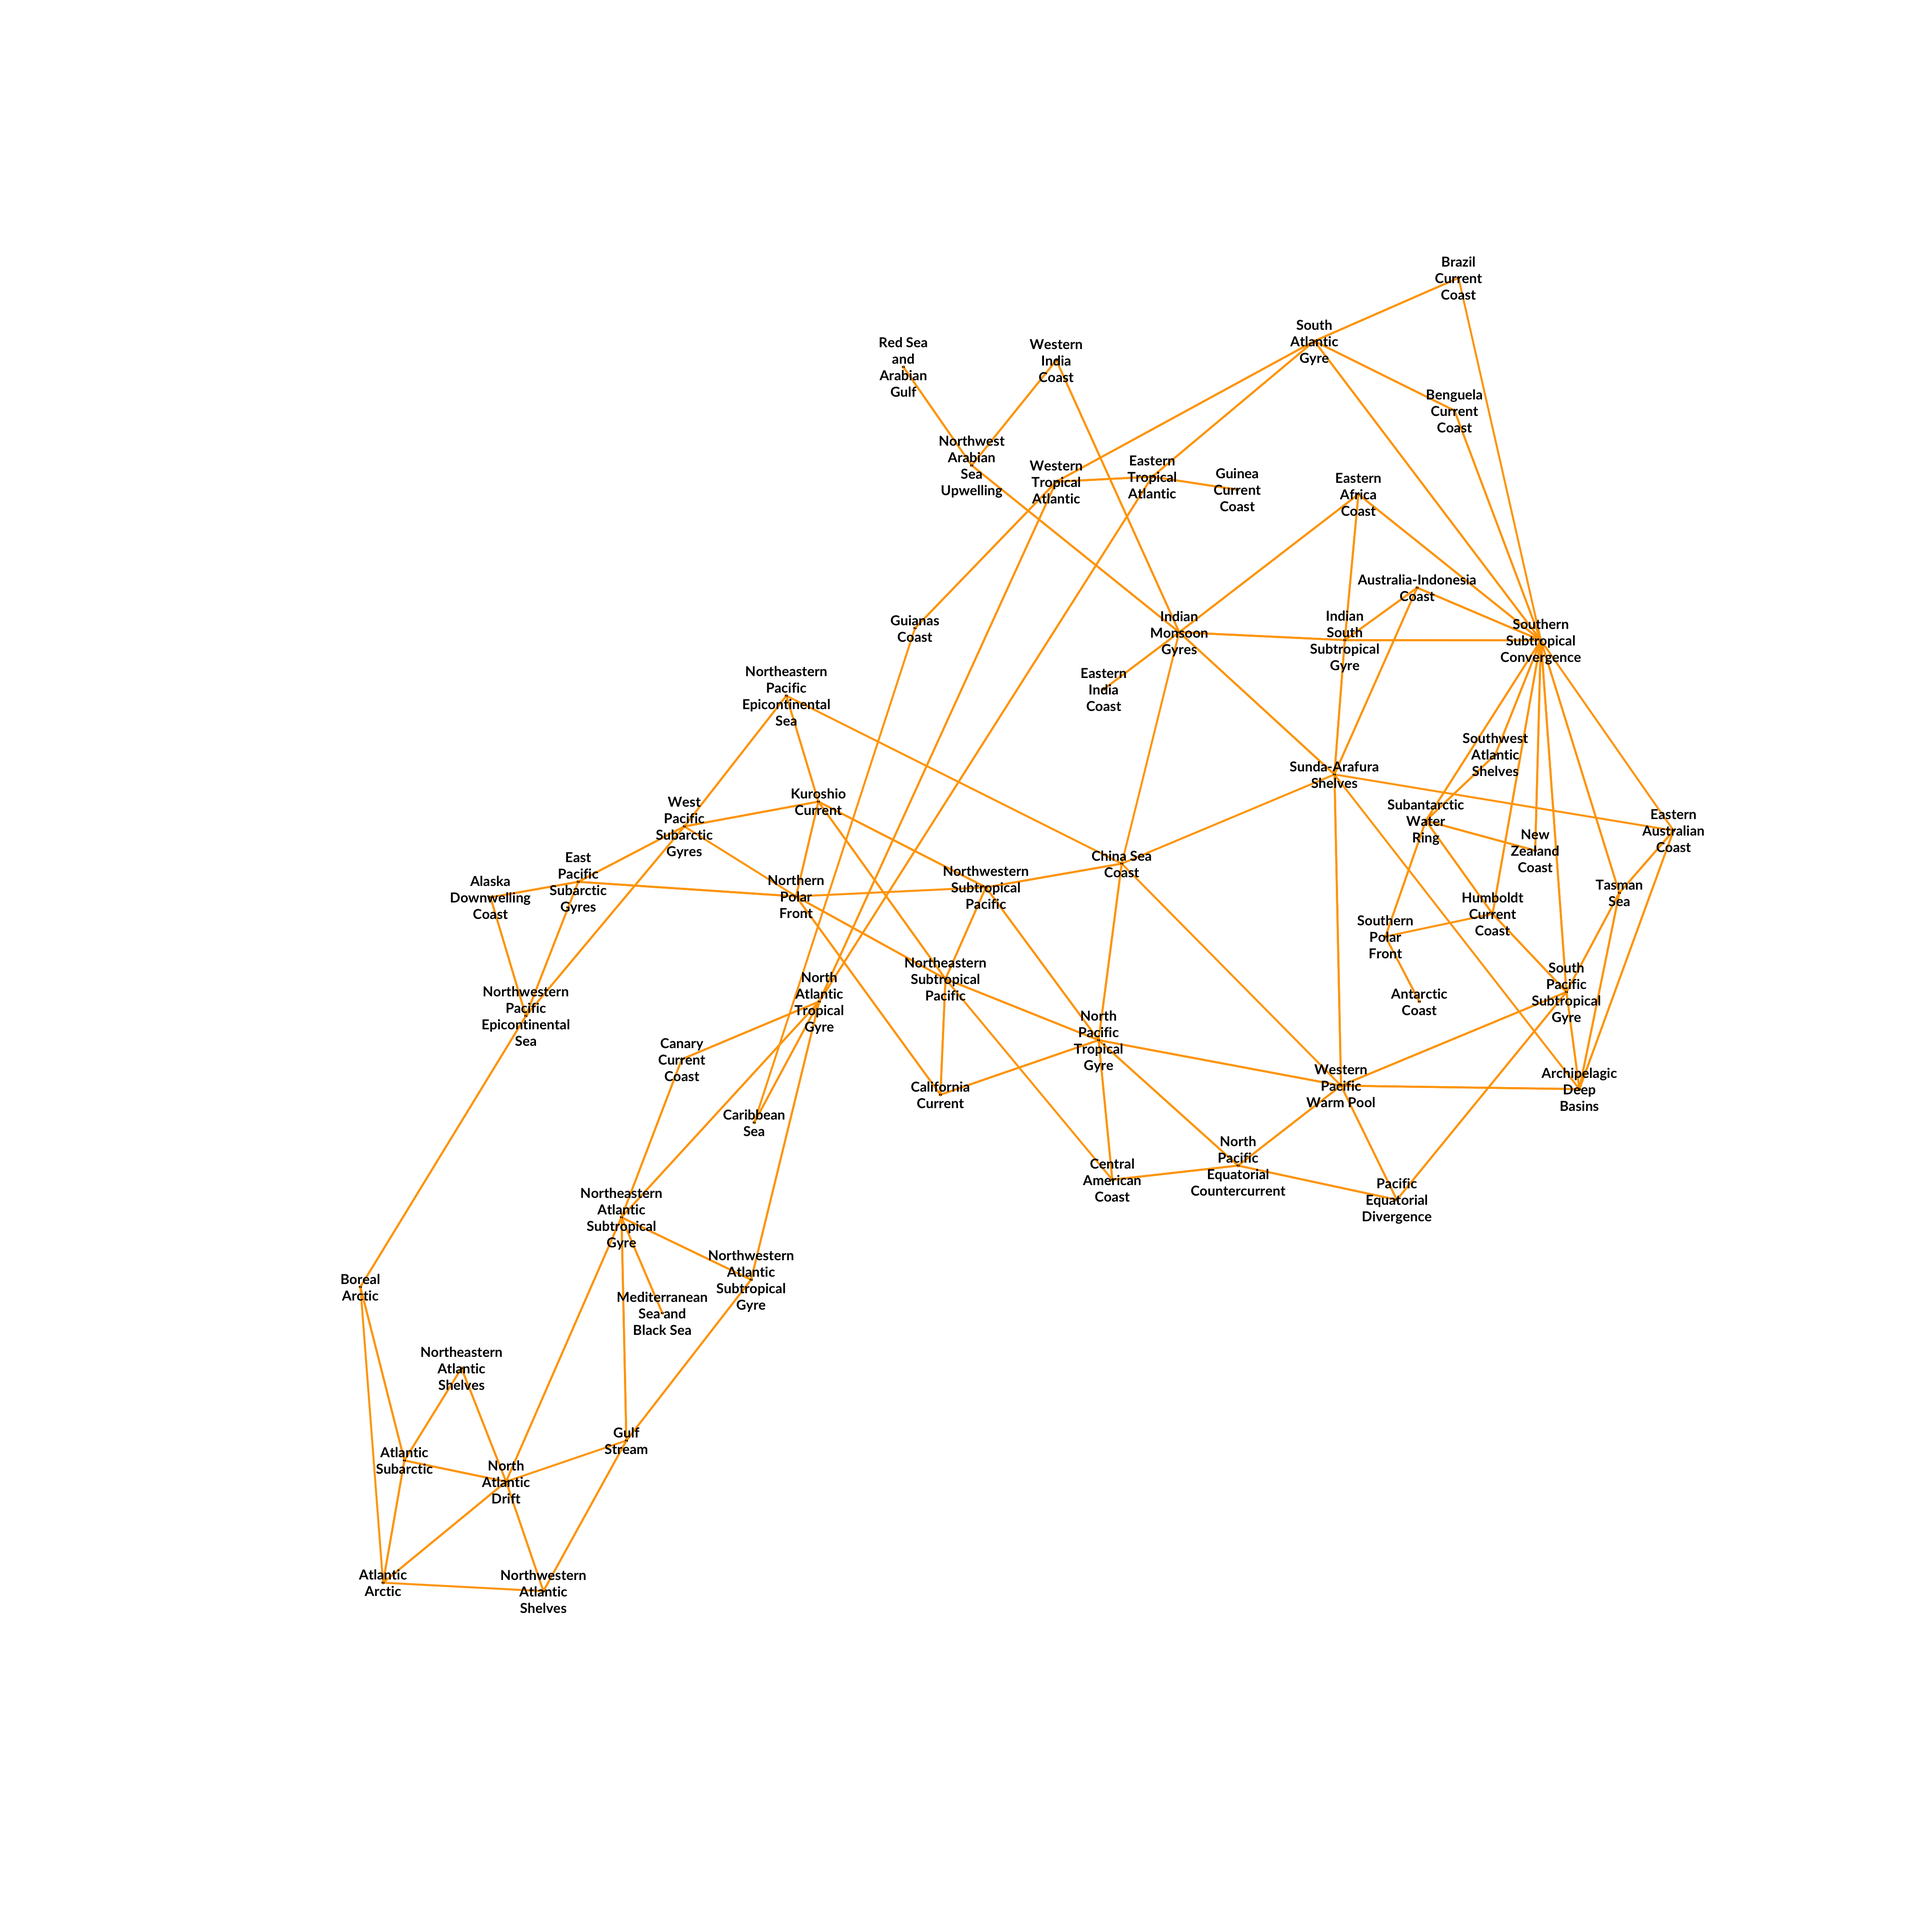
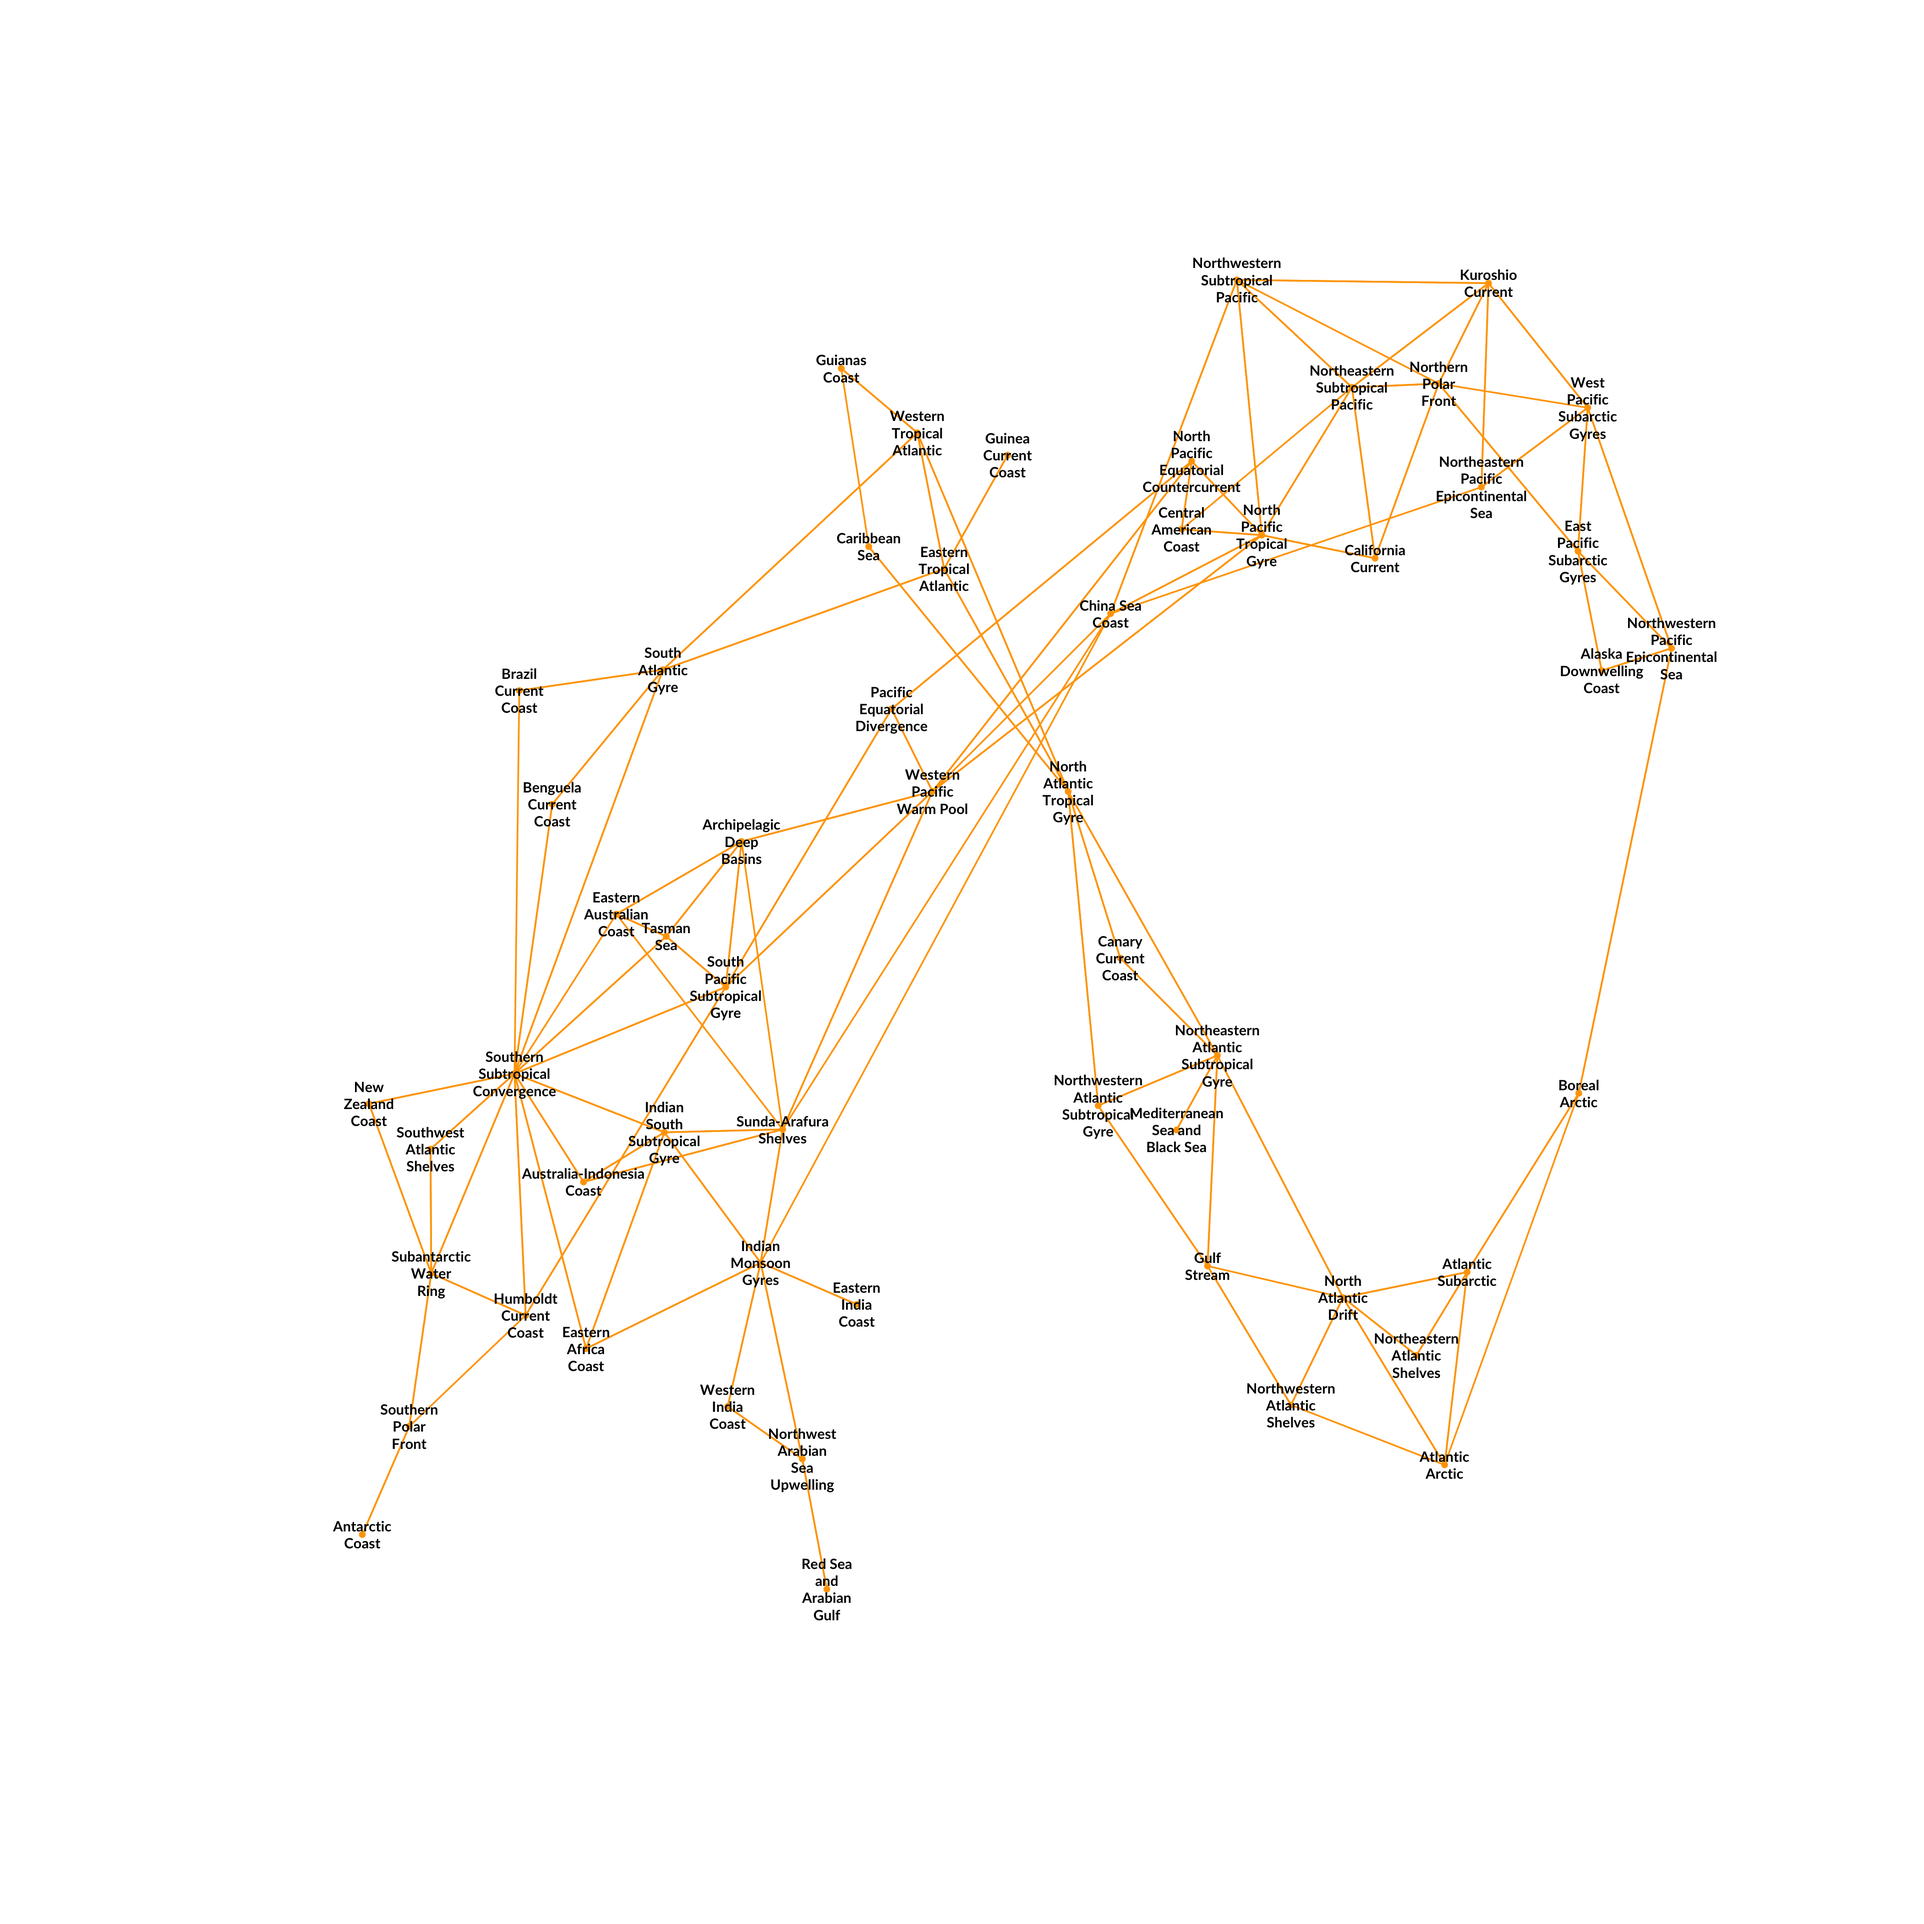
And another commit

diff --git a/Network_of_Oceanic_Regions.md b/Network_of_Oceanic_Regions.md
@@ -47,13 +47,15 @@ colrs <- c("gray50", "tomato", "gold", "black", "skyblue")
 positive_net <- igraph::simplify(positive_plot, remove.multiple = TRUE, remove.loops = TRUE, edge.attr.comb = igraph_opt("edge.attr.comb"))
 # Step 3
 V(positive_net)$vertex.size <- .01
-V(positive_net)$label.cex <- .3
+V(positive_net)$label.cex <- .31
 V(positive_net)$label.family <- "Lato Bold"
 V(positive_net)$label.color <- "black"
-V(positive_net)$size <- .00001
+V(positive_net)$vertex.color <- "orange"
+V(positive_net)$frame.color <- "orange"
+V(positive_net)$size <- .6
 V(positive_net)$label <- wrap_strings(V(positive_net)$Nickname, 10)
 # Step 4
-E(positive_net)$width <- .7
+E(positive_net)$width <- .6
 E(positive_net)$color <- "orange"
 E(positive_net)$arrow.size <- .00005
 ```
